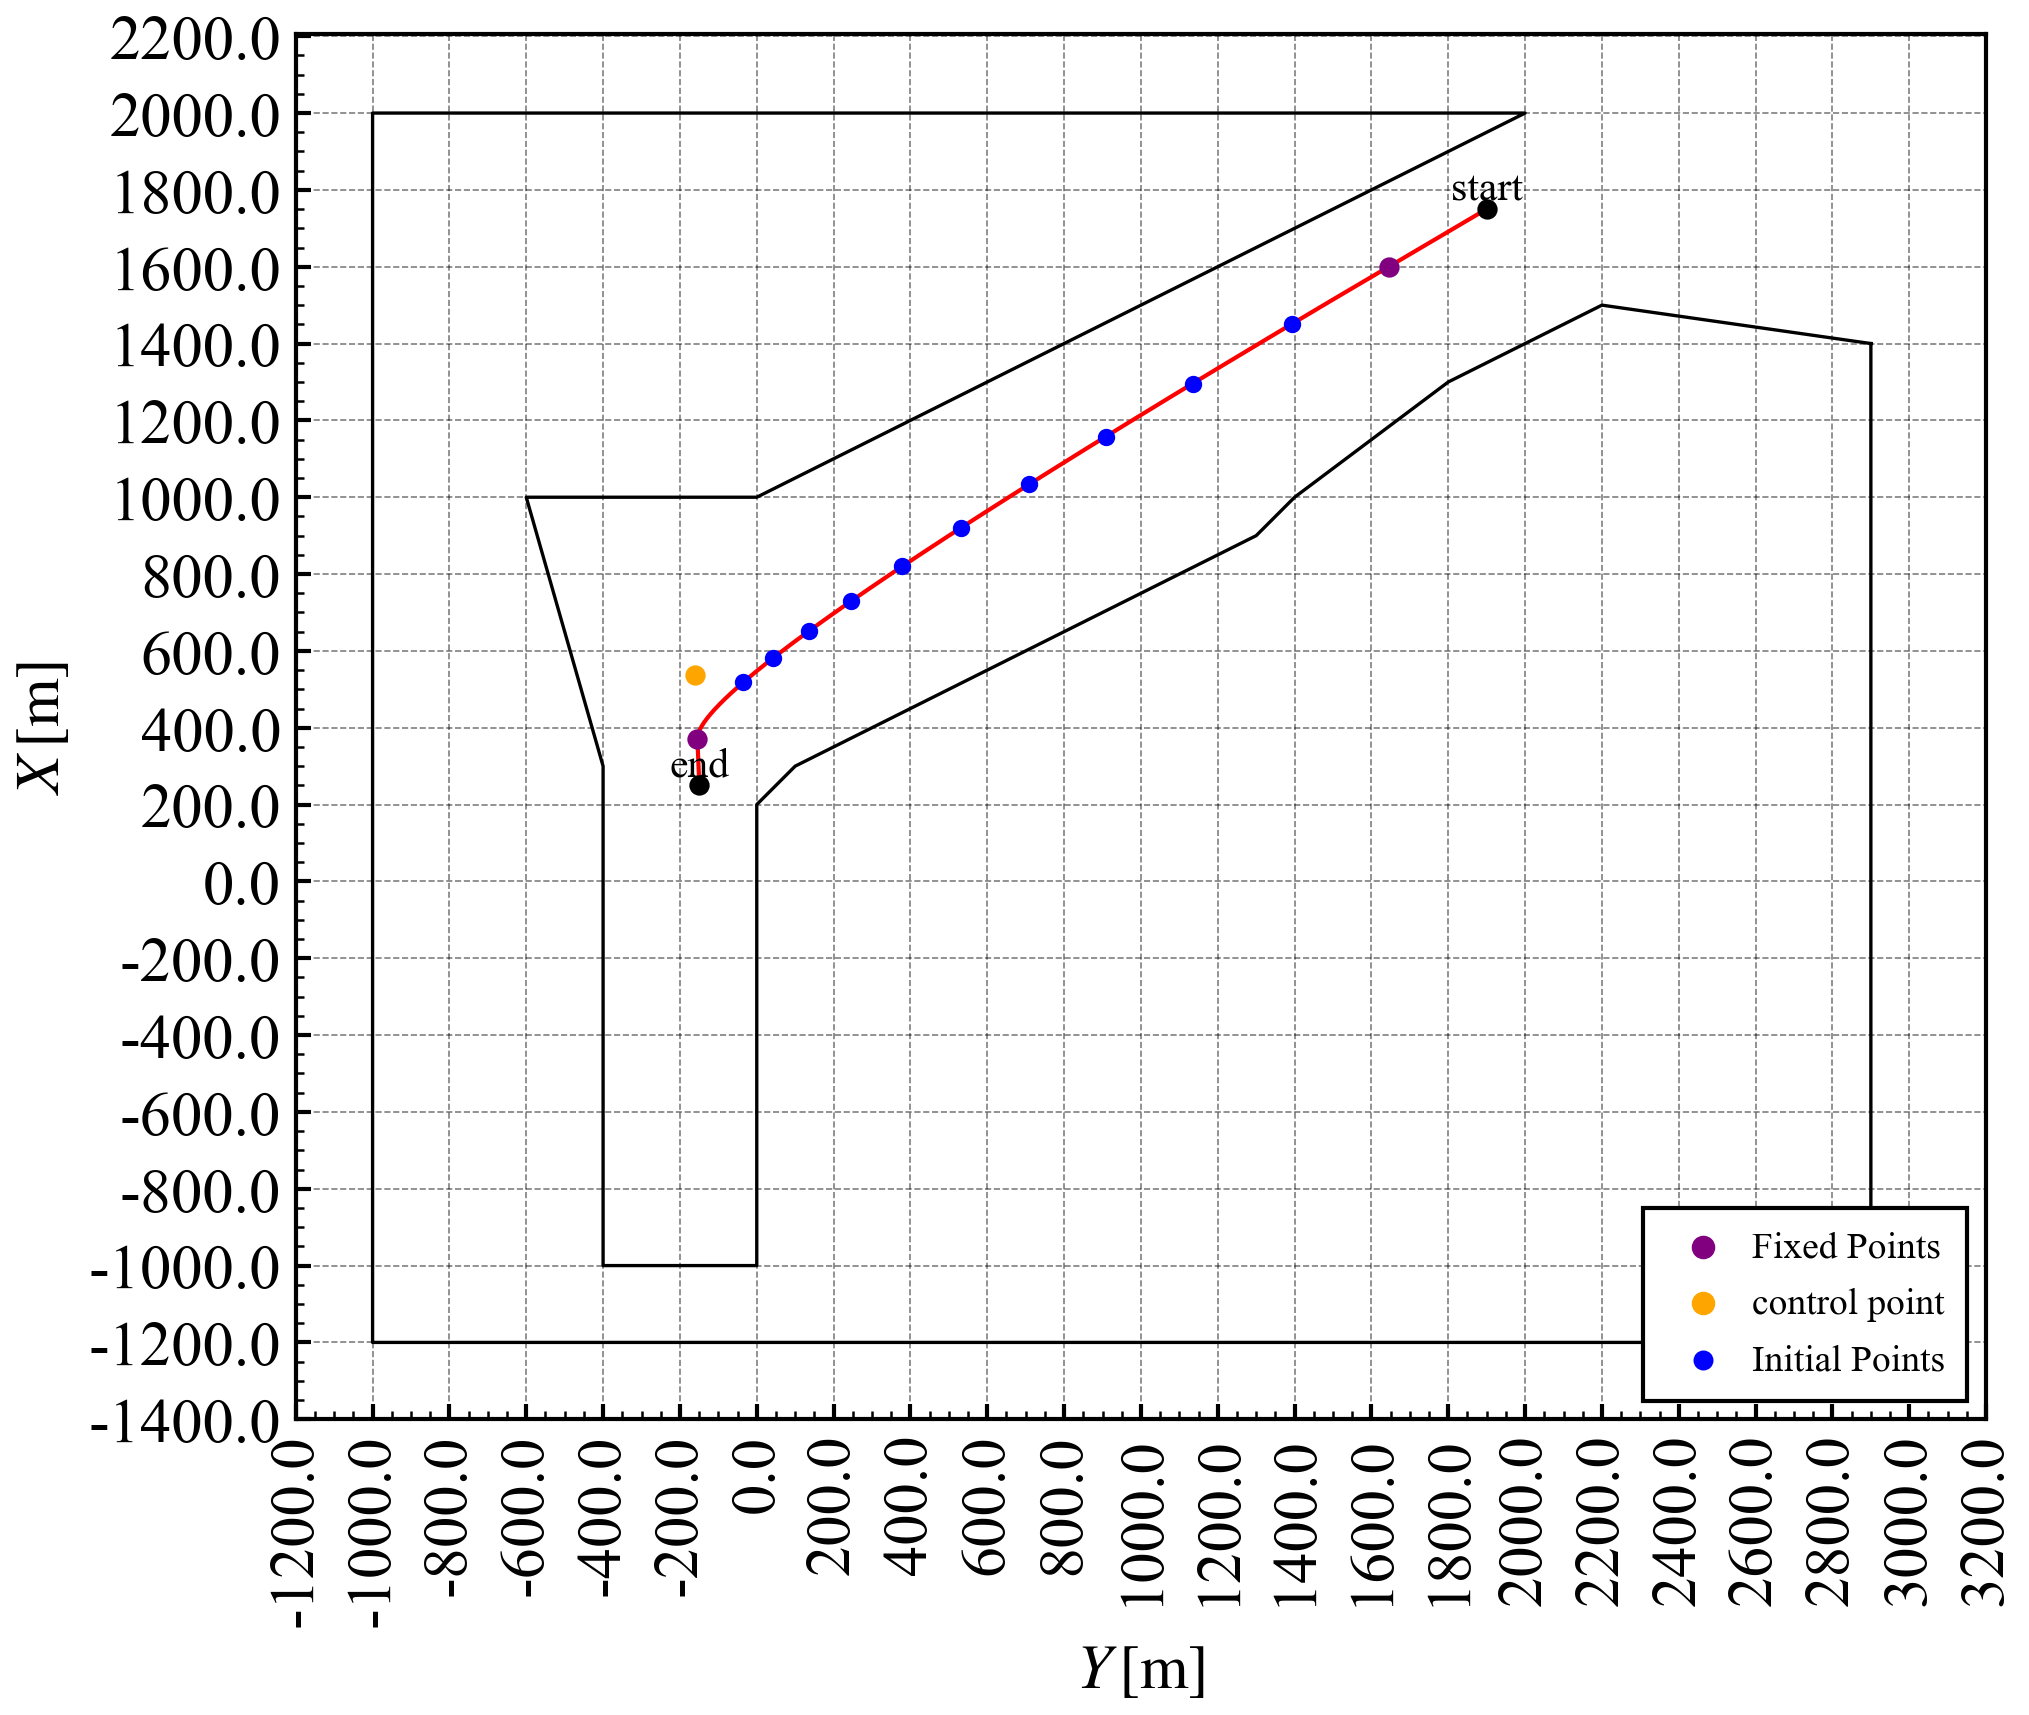
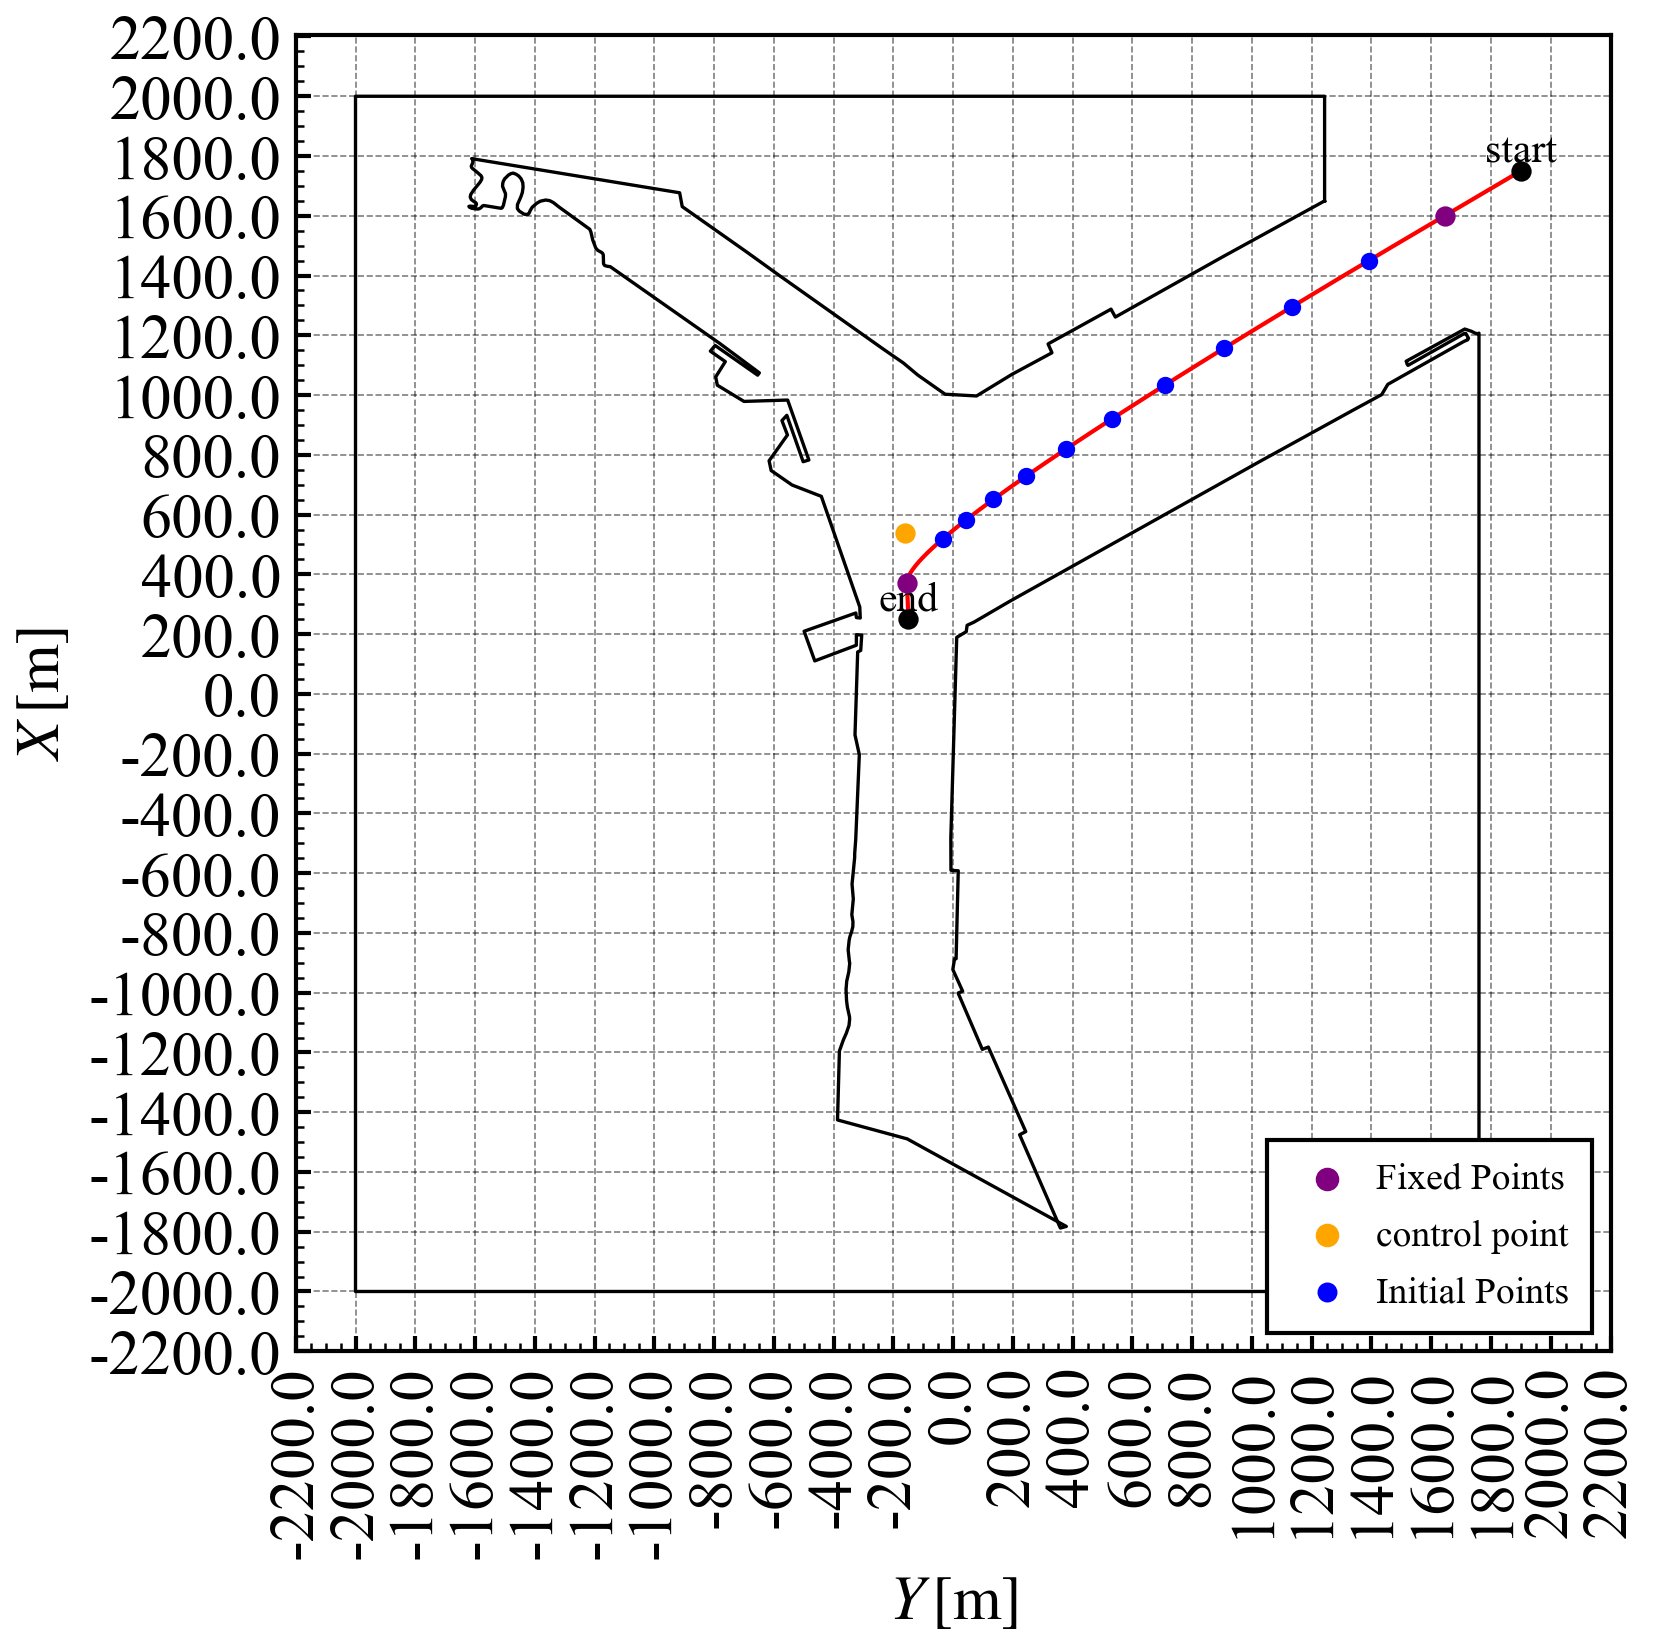
start,endに合わせる、内分の感じで考える

diff --git a/program/path_planning/CMA-ES.py b/program/path_planning/CMA-ES.py
@@ -68,7 +68,7 @@ class InitPathAlgo(StrEnum):
 class Settings:
     def __init__(self):
         # port
-        self.port_number: int = 11
+        self.port_number: int = 7
          # 0: Osaka_1A, 1: Tokyo_2C, 2: Yokkaichi_2B, 3: Else_1, 4: Osaka_1B
          # 5: Else_2, 6: Kashima, 7: Aomori, 8: Hachinohe, 9: Shimizu
          # 10: Tomakomai, 11: KIX
@@ -101,8 +101,8 @@ class Settings:
         self.length_ratio: float = 0.1
         self.SD_ratio: float = 0.5
         self.element_ratio: float = 1.0
+        self.angle_diff_ratio: float = 1.0
         self.distance_ratio: float = 0.2
-        self.straight_ratio: float = 1.0
 
         # restart
         self.restarts: int = 3
@@ -311,6 +311,26 @@ class CostCalculator:
 
         occ = self.new_filtered_dict[speed_key][angle_key]
         return float(100.0 - occ)
+    
+    def angle_diff_cost(self, current_pt: np.ndarray, child_pt: np.ndarray) -> float:
+        sm = self.sample_map
+
+        ver_end, hor_end = np.asarray(sm.end_xy[0], dtype=float)
+        ver_last, hor_last = np.asarray(sm.last_xy[0], dtype=float)
+        ver_c, hor_c = current_pt
+        ver_ch, hor_ch = child_pt
+
+        v1 = np.array([hor_last - hor_end, ver_last - ver_end], dtype=float)
+        v2 = np.array([hor_ch - hor_c, ver_ch - ver_c], dtype=float)
+        m1 = np.linalg.norm(v1)
+        m2 = np.linalg.norm(v2)
+        if m1 == 0.0 or m2 == 0.0:
+            angle_deg = 0.0
+        else:
+            cos_theta = np.clip(np.dot(v1, v2) / (m1 * m2), -1.0, 1.0)
+            angle_deg = float(np.degrees(np.arccos(cos_theta)))
+        
+        return abs(angle_deg)
 
     def distance_cost_between(self, current_pt: np.ndarray, child_pt: np.ndarray) -> float:
         """
@@ -333,21 +353,6 @@ class CostCalculator:
             return 0.0
         return float(abs(ideal - real) / ideal * 100.0)
     
-    def carvature(self, parent_pt: np.ndarray, current_pt: np.ndarray, child_pt: np.ndarray) -> float:
-        def square(x1, x2, x3):
-            x1_ver, x1_hor = x1
-            x2_ver, x2_hor = x2
-            x3_ver, x3_hor = x3
-
-            a = x2_ver - x3_hor; b = x1_hor - x3_hor
-            c = x2_hor - x3_ver; d = x1_ver - x3_ver
-
-            return 0.5 * abs(a*b - c*d)
-
-        a = norm(parent_pt, current_pt); b = norm(current_pt, child_pt); c = norm(child_pt, parent_pt)
-        S = square(parent_pt, current_pt, child_pt)
-        return 4 * S / (a * b * c)
-
 
 def sigmoid(x, a, b, c):
     return a / (b + np.exp(c * x))
@@ -681,36 +686,12 @@ class PathPlanning:
         for j in range(len(pts) - 1):
             dist_cost += cal.distance_cost_between(pts[j], pts[j + 1])
 
-        # straightness
-        straight_cost = 0.0
-        if len(pts) >= 1:
-            straight_cost += cal.carvature(sm.start_xy[0], origin, pts[0])
-        if len(pts) >= 2:
-            straight_cost += cal.carvature(origin, pts[0], pts[1])
-        if len(pts) >= 2:
-            straight_cost += cal.carvature(pts[-2], pts[-1], last)
-        if len(pts) >= 1:
-            straight_cost += cal.carvature(pts[-1], last, end)
-        for j in range(1, len(pts) - 1):
-            straight_cost += cal.carvature(pts[j - 1], pts[j], pts[j + 1])
-        
-        # nearest_buoy_distance
-        # near_buoy_cost = 0.0
-        # poly = np.vstack([origin, pts, last])
-        # for pt in pts:
-        #     for buoy in sm.buoy_xy:
-        #         dist = norm(buoy, pt)
-        #         theta = 60
-        #         speed = sm.b_ave * dist ** (sm.a_ave) + sm.b_SD * dist ** (sm.a_SD)
-        #         near_buoy_cost += 1 / (dist / SD.distance(speed, theta))
-
         # coefficients
         self.element_coeff = 1.0 * self.ps.element_ratio
+        self.angle_diff_coeff = 1.0 * self.ps.angle_diff_ratio
         self.length_coeff = (elem_cost / length_cost) * self.ps.length_ratio if length_cost > 0 else 1.0
         self.SD_coeff = (elem_cost / SD_cost) * self.ps.SD_ratio if SD_cost > 0 else 10.0
         self.distance_coeff = (elem_cost / dist_cost) * self.ps.distance_ratio if dist_cost > 0 else 1.0
-        self.straight_coeff = (elem_cost / straight_cost) * self.ps.straight_ratio
-        # self.near_bay_coeff = (elem_cost / near_buoy_cost) * self.ps.near_buoy_ratio 
 
 
     def path_evaluate(self, X: np.ndarray) -> np.ndarray | float:
@@ -786,6 +767,16 @@ class PathPlanning:
             for j in range(1, len(pts) - 1):
                 elem_cost += cal.elem(pts[j - 1], pts[j], pts[j + 1])
 
+            # difference from current angle to end angle
+            angle_cost = 0.0
+            if len(pts) >= 1:
+                angle_cost += cal.angle_diff_cost(origin, pts[0])
+                angle_cost += cal.angle_diff_cost(pts[-1], last)
+            else:
+                angle_cost += cal.angle_diff_cost(origin, last)
+            for j in range(len(pts) - 1):
+                angle_cost += cal.angle_diff_cost(pts[j], pts[j + 1])
+
             # distance
             dist_cost = 0.0
             if len(pts) >= 1:
@@ -796,36 +787,13 @@ class PathPlanning:
             for j in range(len(pts) - 1):
                 dist_cost += cal.distance_cost_between(pts[j], pts[j + 1])
 
-            # straightness
-            # straight_cost = 0.0
-            # if len(pts) >= 1:
-            #     straight_cost += cal.carvature(sm.start_xy[0], origin, pts[0])
-            # if len(pts) >= 2:
-            #     straight_cost += cal.carvature(origin, pts[0], pts[1])
-            # if len(pts) >= 2:
-            #     straight_cost += cal.carvature(pts[-2], pts[-1], last)
-            # if len(pts) >= 1:
-            #     straight_cost += cal.carvature(pts[-1], last, end)
-            # for j in range(1, len(pts) - 1):
-            #     straight_cost += cal.carvature(pts[j - 1], pts[j], pts[j + 1])
-
-            # nearest_buoy_distance
-            # near_buoy_cost = 0.0
-            # poly = np.vstack([origin, pts, last])
-            # for pt in pts:
-            #     for buoy in sm.buoy_xy:
-            #         dist = norm(buoy, pt)
-            #         theta = 60
-            #         speed = sm.b_ave * dist ** (sm.a_ave) + sm.b_SD * dist ** (sm.a_SD)
-            #         near_buoy_cost += 1 / (dist / SD.distance(speed, theta))
-
 
             total = (
                 self.length_coeff * length_cost
                 + self.SD_coeff * SD_cost
                 + self.element_coeff * elem_cost
                 + self.distance_coeff * dist_cost
-                # + self.straight_coeff * straight_cost
+                + self.angle_diff_coeff * angle_cost
             )
             costs[i] = total
 
@@ -1125,7 +1093,7 @@ class PathPlanning:
             f"{'SD':<12}{self.ps.SD_ratio}\n"
             f"{'Element':<12}{self.ps.element_ratio}\n"
             f"{'Distance':<12}{self.ps.distance_ratio}\n"
-            f"{'Straight':<12}{self.ps.straight_ratio}\n"
+            f"{'Andle':<12}{self.ps.angle_diff_ratio}\n"
         )
 
         # --- start & end ---
@@ -1250,7 +1218,7 @@ class PathPlanning:
                 "name": "Aomori",
                 "start": [350, 3400.0],
                 "end": [0, 100],
-                "psi_start": -130,
+                "psi_start": -115,
                 "psi_end": -90,
                 "berth_type": 2,
                 "ver_range": [-1500, 1500],
@@ -1259,9 +1227,9 @@ class PathPlanning:
             8: {
                 "name": "Hachinohe",
                 "start": [1350, 2500.0],
-                "end": [350, 350],
+                "end": [100, 250],
                 "psi_start": -110,
-                "psi_end": -170,
+                "psi_end": -160,
                 "berth_type": 2,
                 "ver_range": [-1000, 2500],
                 "hor_range": [-1000, 3000],
@@ -1293,7 +1261,7 @@ class PathPlanning:
                 "psi_start": -10,
                 "psi_end": -30,
                 "berth_type": 2,
-                "ver_range": [-2500, 1000],
+                "ver_range": [-3000, 500],
                 "hor_range": [-2000, 2000],
             },
         }

diff --git a/program/utils/PP/graph_by_taneichi.py b/program/utils/PP/graph_by_taneichi.py
@@ -105,7 +105,7 @@ class Map():
         # initial points
         if initial_point_list is not None:
             initial_points = np.array(initial_point_list).reshape(-1, 2)
-            ax.scatter(initial_points[:, 1], initial_points[:, 0], color='blue', s=10, label='Initial Points', zorder=3)
+            ax.scatter(initial_points[:, 1], initial_points[:, 0], color='green', s=10, label='Initial Points', zorder=3)
 
         # path chain (start -> origin -> path -> last -> end)
         if 'path_xy' in dir(self):
@@ -231,7 +231,7 @@ class Map():
         # initial points
         if initial_point_list is not None:
             initial_points = np.array(initial_point_list).reshape(-1, 2)
-            ax.scatter(initial_points[:, 1], initial_points[:, 0], color='blue', s=10, label='Initial Points', zorder=3)
+            ax.scatter(initial_points[:, 1], initial_points[:, 0], color='green', s=10, label='Initial Points', zorder=3)
 
         # optimized points
         if optimized_point_list is not None:
@@ -239,7 +239,7 @@ class Map():
             ax.scatter(
                 optimized_points[:, 1],
                 optimized_points[:, 0],
-                color='green', s=15, label='Optimized Points', zorder=3
+                color='blue', s=15, label='Optimized Points', zorder=3
             )
 
         # path chain (start -> origin -> path -> last -> end)

diff --git a/program/path_planning/MakeDtailMap.py b/program/path_planning/MakeDtailMap.py
@@ -13,15 +13,15 @@ from utils.PP.stay_ports import Hokkaido, Honsyu
 
 DIR = os.path.dirname(__file__)
 RAW_DATAS = f"{DIR}/../../raw_datas"
-PORT = Honsyu.Pasific.suruga_bay
+PORT = Honsyu.Pasific.ise_bay
 coast_file = f"{RAW_DATAS}/国土交通省/C23-06_{PORT.num}_GML/C23-06_{PORT.num}-g.csv"
 port_file = f"{RAW_DATAS}/tmp/coordinates_of_port/_{PORT.name}.csv"
-SAVE_DIR = f"{DIR}/../../outputs/data/rough_map"
+SAVE_DIR = f"{DIR}/../../outputs/data/detail_map"
 
 SORT = False
-SAVE = True
-SHOW = False
-R_MAX = 2500
+SAVE = False
+SHOW = True
+R_MAX = 4000
 
 # ---- 原点と向き ----
 df_coord = pd.read_csv(port_file)

diff --git a/program/sandbox/test2.py b/program/sandbox/test2.py
@@ -4,8 +4,8 @@ import pandas as pd
 
 DIR = os.path.dirname(__file__)
 DATA = f"{DIR}/../../outputs/data"
-file = f"{DATA}/detail_map/Shimizu.csv"
-# file = f"{DATA}/rough_map/Kamaishi.csv"
+file = f"{DATA}/detail_map/Yokkaichi_port2B.csv"
+# file = f"{DATA}/rough_map/Shimizu.csv"
 SAVE_DIR = os.path.dirname(file)
 
 df = pd.read_csv(file)
